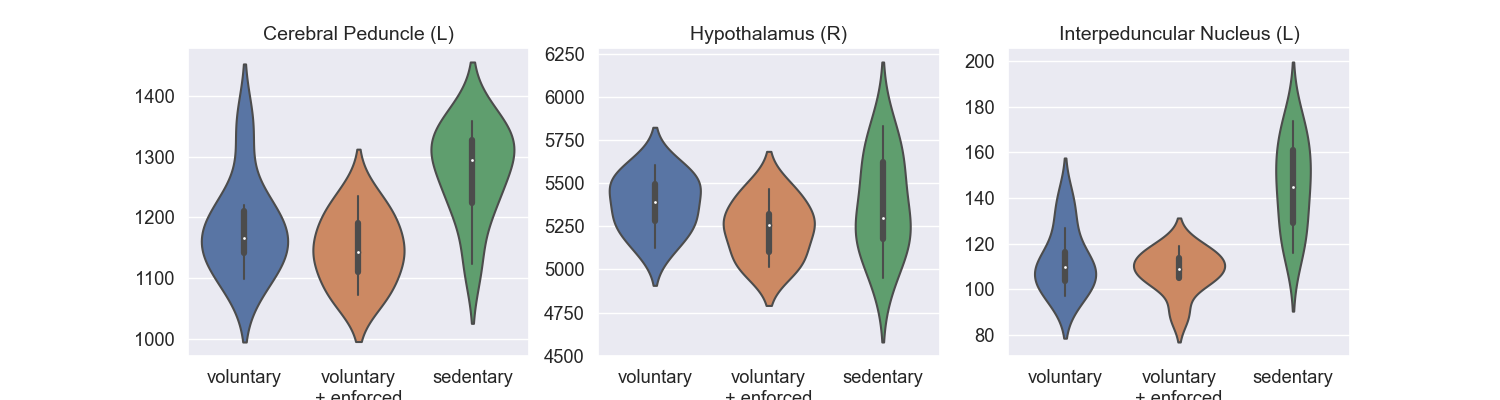
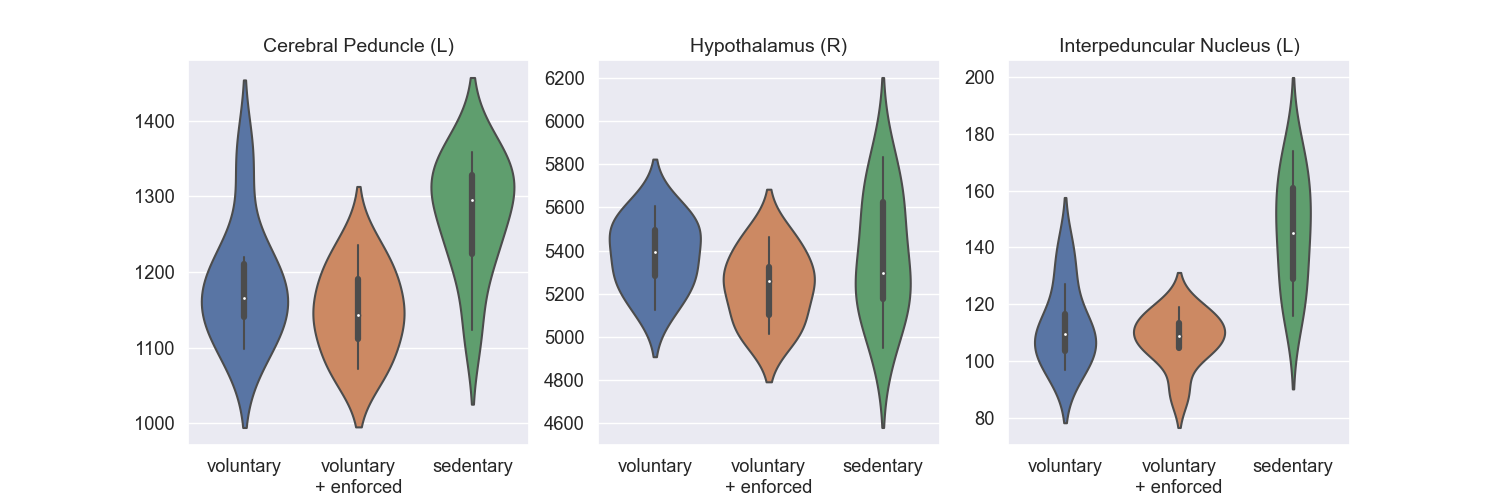
Updated output figures; modified read_posthoc.py to allow user to view top most significant regions

diff --git a/Statistical Analysis/read_posthoc.py b/Statistical Analysis/read_posthoc.py
@@ -39,7 +39,7 @@ abbreviation_updated = list(map(lambda x,y: abbreviation_update(x,y), index_df["
 name_dict = {abbreviation_updated[i]: structure_updated[i] for i in range(len(abbreviation_updated))}
 
 top_regs = []
-top_regs_num = 3
+top_regs_num = 5
 comp_groups = ['ST','SW','TW']
 for comparison in comp_groups:
     df_comp = df.sort_values(by=[comparison], ascending=True)
@@ -56,11 +56,12 @@ sns.set(font_scale = 1.2)
 title_groups = ['Sedentary vs. Voluntary + Enforced Exercise','Sedentary vs. Voluntary Exercise','Voluntary vs. Voluntary + Forced Exercise']
 title_dict = {comp_groups[i]: title_groups[i] for i in range(len(comp_groups))}
 
-for listframe in range(len(top_regs)):
-    fig, axes = plt.subplots(1, 3, figsize=(15, 4))
+plot_num = 3
+for listframe in range(len(comp_groups)):
+    fig, axes = plt.subplots(1, plot_num, figsize=(15, 5))
     fig.suptitle('Most Significant Regions via Post-Hoc Analysis\n({})'.format(title_dict[comp_groups[listframe]]),
                  y=1.15, fontsize=16)
-    for val in range(top_regs_num):
+    for val in range(plot_num):
         name = top_regs[listframe].iloc[val,0]
         reg = name_dict[name]
         sns.violinplot(ax = axes[val], x = "Treatment", y = name, data = df_vol.filter(['Treatment', name], axis=1)).set_ylabel("")
